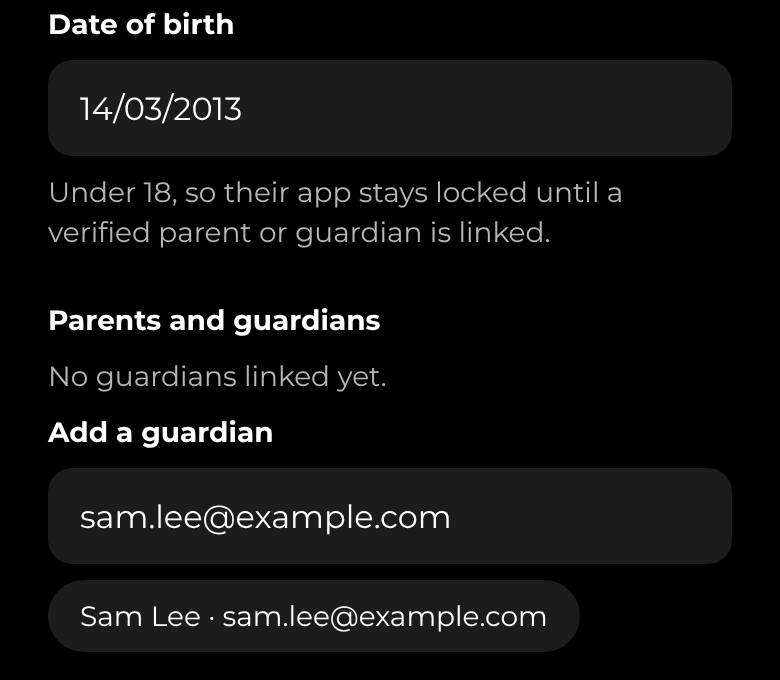
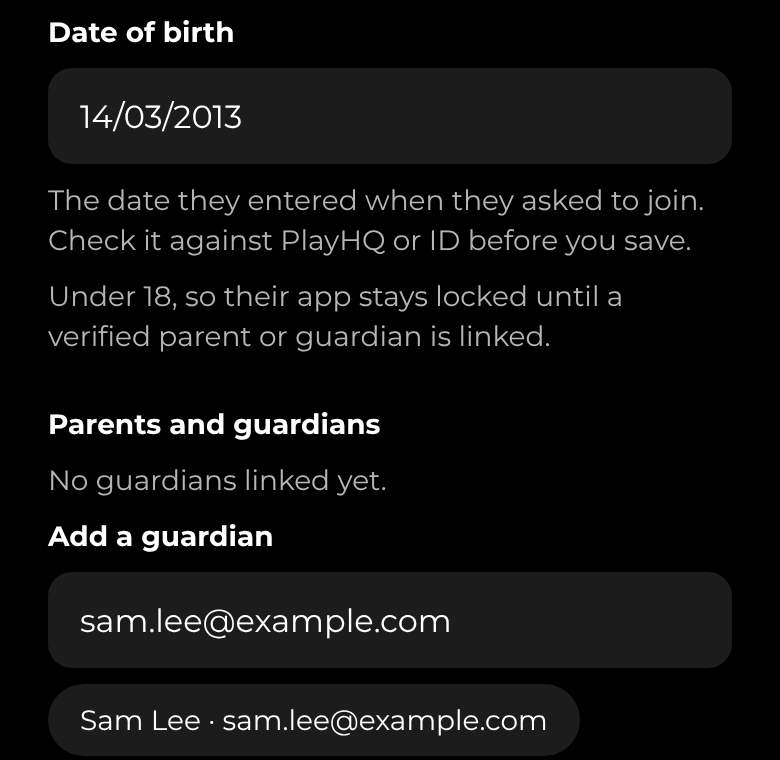
Start an athlete's Date of birth from the date they entered at Join
The admin's Date of birth field on a member's page started blank, with the
date the athlete entered shown in the details card and a button lower down.
Admins missed it. The field now starts from the date they entered, with a
line saying to check it against PlayHQ or ID before saving. It's still saved
as the checked date only when the admin saves, with their name.

Only for athletes: the field shows for no other role, so no unchecked date
is ever saved for anyone else. A checked date always wins over the entered one.

Claude-Session: https://claude.ai/code/session_019HSmi9m5fUrLQwFZLFsvnR

diff --git a/src/__tests__/admin-member-actions.test.tsx b/src/__tests__/admin-member-actions.test.tsx
@@ -517,12 +517,14 @@ describe('approving a request', () => {
     await openMember(PENDING_CHILD, { people: [GUARDIAN, UNVERIFIED_GUARDIAN] });
     expect(isChosen(inSection('Role', 'Athlete'))).toBe(true);
     expect(isChosen(inSection('Squads', 'Open Squad'))).toBe(true);
-    expect(
-      screen.getByText('Check their date of birth against PlayHQ or ID and add it before you approve them.'),
-    ).toBeTruthy();
-
-    await press('I’ve checked it: use 01/04/2012');
+    // The field starts from the date they entered at Join, marked as not yet checked.
     expect(fieldFor('Date of birth').props.value).toBe('01/04/2012');
+    expect(
+      screen.getByText(
+        'The date they entered when they asked to join. Check it against PlayHQ or ID before you save.',
+      ),
+    ).toBeTruthy();
+    expect(screen.queryByText(/^Use the date they entered/)).toBeNull();
     expect(
       screen.getByText('Under 18, so their app stays locked until a verified parent or guardian is linked.'),
     ).toBeTruthy();
@@ -562,12 +564,52 @@ describe('approving a request', () => {
     await openMember(PENDING_CHILD);
     await typeInto('Date of birth', '02/04/2012');
     expect(screen.getByText('Not the date they gave (01/04/2012).')).toBeTruthy();
-    expect(screen.queryByText(/^I’ve checked it/)).toBeNull();
+    expect(screen.queryByText(/^Use the date they entered/)).toBeNull();
+    expect(screen.queryByText(/^The date they entered when they asked to join/)).toBeNull();
+  });
+
+  it('puts the date they entered back when the field is cleared', async () => {
+    await openMember(PENDING_CHILD);
+    await typeInto('Date of birth', '');
+    expect(
+      screen.getByText('Check their date of birth against PlayHQ or ID and add it before you approve them.'),
+    ).toBeTruthy();
+    await press('Use the date they entered: 01/04/2012');
+    expect(fieldFor('Date of birth').props.value).toBe('01/04/2012');
+  });
+
+  it('never fills in the date they entered for someone who isn’t an athlete', async () => {
+    const PENDING_GUEST: Profile = {
+      ...PENDING_CHILD,
+      id: 'pending-guest',
+      requested_role: 'guest',
+      requested_team_id: null,
+      declared_date_of_birth: '1980-04-01',
+      guardian_email: null,
+    };
+    await openMember(PENDING_GUEST);
+    expect(screen.queryByText('Date of birth')).toBeNull();
+    await press('Approve');
+    const details = adminWrites().find(([name]) => name === 'admin_set_member_details');
+    expect(details?.[1]).toMatchObject({ p_date_of_birth: null });
+  });
+
+  it('starts from the date they entered once an admin makes them an athlete', async () => {
+    await openMember({ ...PENDING_CHILD, id: 'asked-as-guest', requested_role: 'guest', requested_team_id: null });
+    expect(screen.queryByText('Date of birth')).toBeNull();
+    await pressInSection('Role', 'Athlete');
+    expect(fieldFor('Date of birth').props.value).toBe('01/04/2012');
+  });
+
+  it('keeps a checked date of birth rather than the one they entered', async () => {
+    await openMember({ ...p('athlete'), date_of_birth: '1990-05-06', declared_date_of_birth: '1991-01-01' });
+    expect(fieldFor('Date of birth').props.value).toBe('06/05/1990');
+    expect(screen.queryByText(/^The date they entered when they asked to join/)).toBeNull();
+    expect(screen.getByText('Not the date they gave (01/01/1991).')).toBeTruthy();
   });
 
   it('never links a guardian who hasn’t been verified', async () => {
     await openMember(PENDING_CHILD, { people: [UNVERIFIED_GUARDIAN] });
-    await press('I’ve checked it: use 01/04/2012');
     await typeInto('Add a guardian', 'unverified');
     await press('Unverified Parent · parent2@example.test (not verified)');
     expect(
@@ -581,7 +623,6 @@ describe('approving a request', () => {
 
   it('says when no guardians are approved yet', async () => {
     await openMember(PENDING_CHILD, { people: [] });
-    await press('I’ve checked it: use 01/04/2012');
     expect(screen.getByText(/^No approved guardians yet\./)).toBeTruthy();
     expect(screen.queryByText('Add a guardian')).toBeNull();
   });
@@ -590,7 +631,6 @@ describe('approving a request', () => {
     await openMember(PENDING_CHILD, {
       rpcErrors: { admin_save_member: 'Link at least one verified guardian before approving an athlete under 18' },
     });
-    await press('I’ve checked it: use 01/04/2012');
     await press('Approve');
     expect(
       screen.getByText('Link at least one verified guardian before approving an athlete under 18'),
@@ -602,7 +642,6 @@ describe('approving a request', () => {
     const UNDER_13 = { ...PENDING_CHILD, id: 'under-13', declared_date_of_birth: '2014-04-01' };
     const refusal = "They're under 13. FirstPass HQ is for members aged 13 and over, so decline their request";
     await openMember(UNDER_13, { rpcErrors: { admin_save_member: refusal } });
-    await press('I’ve checked it: use 01/04/2014');
     await press('Approve');
     expect(screen.getByText(refusal)).toBeTruthy();
     expect(back).not.toHaveBeenCalled();

diff --git a/src/app/admin/[id].tsx b/src/app/admin/[id].tsx
@@ -129,7 +129,9 @@ export default function MemberScreen() {
   const [extraRoles, setExtraRoles] = useState<AppRole[]>([]);
   const [selection, setSelection] = useState<Placements>({});
   const [under18, setUnder18] = useState(false);
-  const [dateOfBirth, setDateOfBirth] = useState('');
+  // null until the admin types: the field then shows the saved date, or for an
+  // athlete with none, the date they entered at Join (see declaredDob below).
+  const [typedDateOfBirth, setDateOfBirth] = useState<string | null>(null);
   const [wwccNumber, setWwccNumber] = useState('');
   const [wwccExpires, setWwccExpires] = useState('');
   const [exempt, setExempt] = useState(false);
@@ -217,7 +219,7 @@ export default function MemberScreen() {
       setMember(profile);
       logRecordView(id, 'member_record');
       setUnder18(profile.under_17);
-      setDateOfBirth(formatDate(profile.date_of_birth));
+      setDateOfBirth(null);
       setDobRecord((dobResult.data as DobRecord | null) ?? null);
       setWwccNumber(profile.wwcc_number ?? '');
       setWwccExpires(formatDate(profile.wwcc_expires_on));
@@ -325,6 +327,15 @@ export default function MemberScreen() {
   const inTeams = teamRolesHeld.length > 0;
   const isAthlete = roles.includes('athlete');
   const isGuardian = roles.includes('guardian');
+
+  // An athlete with no checked date of birth yet: the field starts from the
+  // date they entered at Join, for the admin to check against PlayHQ or ID.
+  // Only for athletes, the one role whose field shows, so no unchecked date
+  // is ever saved for anyone else.
+  const declaredDob = !member?.date_of_birth ? (member?.declared_date_of_birth ?? null) : null;
+  const dateOfBirth =
+    typedDateOfBirth ??
+    formatDate(member?.date_of_birth ?? (isAthlete ? declaredDob : null));
   const isPhysio = roles.includes('physio');
   const dob = parseDate(dateOfBirth);
   // The card as saved, and whether the fields still show it.
@@ -1086,6 +1097,12 @@ export default function MemberScreen() {
             keyboardType="numbers-and-punctuation"
             maxLength={10}
           />
+          {dob && declaredDob && dob === declaredDob ? (
+            <ThemedText type="small" themeColor="textSecondary">
+              The date they entered when they asked to join. Check it against PlayHQ or ID before
+              you save.
+            </ThemedText>
+          ) : null}
           {dob ? (
             <ThemedText type="small" themeColor="textSecondary">
               {minor
@@ -1104,7 +1121,7 @@ export default function MemberScreen() {
           ) : null}
           {dob === null && member.declared_date_of_birth ? (
             <Button
-              title={`I’ve checked it: use ${formatDate(member.declared_date_of_birth)}`}
+              title={`Use the date they entered: ${formatDate(member.declared_date_of_birth)}`}
               variant="secondary"
               onPress={() => setDateOfBirth(formatDate(member.declared_date_of_birth))}
             />

diff --git a/docs/user-guide.md b/docs/user-guide.md
@@ -2832,9 +2832,11 @@ birthday they can ask again.
    **Training partner**. For physios, choose **Physio** or **Head Physio** under **Physio title**,
    and place them in the squads or teams they look after. Only the Head Physio looks after every
    athlete; a physio in no squad or team sees no athletes.
-3. For athletes, check their date of birth against PlayHQ or ID and enter it under **Date of
-   birth** (DD/MM/YYYY). If it matches what they gave, tap **I've checked it: use** that date. If
-   you enter a different date, the page notes the one they gave. The page shows who recorded the
+3. For athletes, check their date of birth against PlayHQ or ID. **Date of birth** starts with the
+   date they entered when they asked to join, marked as theirs and not yet checked; it's saved as
+   the checked date, with your name, only when you save their page. If PlayHQ or ID shows a
+   different date, type the right one (DD/MM/YYYY) and the page notes the one they gave. If you
+   clear the field, **Use the date they entered** puts theirs back. The page shows who recorded the
    date and when. Anyone under 18 gets a **Parents and guardians** section. You can approve a child
    before a parent or guardian is linked: their app stays locked, showing only their link code,
    until a verified one is, and the section says **Locked** while it is. Each parent or guardian
@@ -3004,8 +3006,8 @@ club** or **Other**) and tap **Don't approve**. They see the reason and can requ
 <img src="user-guide/member-approve.png" width="210" alt="Approving a guardian's request">
 <img src="user-guide/member-new.png" width="210" alt="Approving an athlete's request">
 
-<img src="user-guide/member-date-of-birth.png" width="210" alt="An admin checking the date of birth a child gave">
-<img src="user-guide/member-date-checked.png" width="210" alt="The checked date of birth, with the guardian search started from the email the child gave">
+<img src="user-guide/member-date-of-birth.png" width="210" alt="A child's request, with the date of birth they gave and the role and squad they asked for">
+<img src="user-guide/member-date-checked.png" width="210" alt="Date of birth started from the date the child gave, marked to check against PlayHQ or ID, with the guardian search started from the email the child gave">
 <img src="user-guide/member-under-18.png" width="210" alt="Athlete under 18 with date of birth and guardians linked">
 <img src="user-guide/member-link-request.png" width="210" alt="A locked child's page, with the parent who entered their code waiting for approval">
 <img src="user-guide/member-link-parent.png" width="210" alt="A parent's page, with the child whose code they entered, their date of birth and squad">
